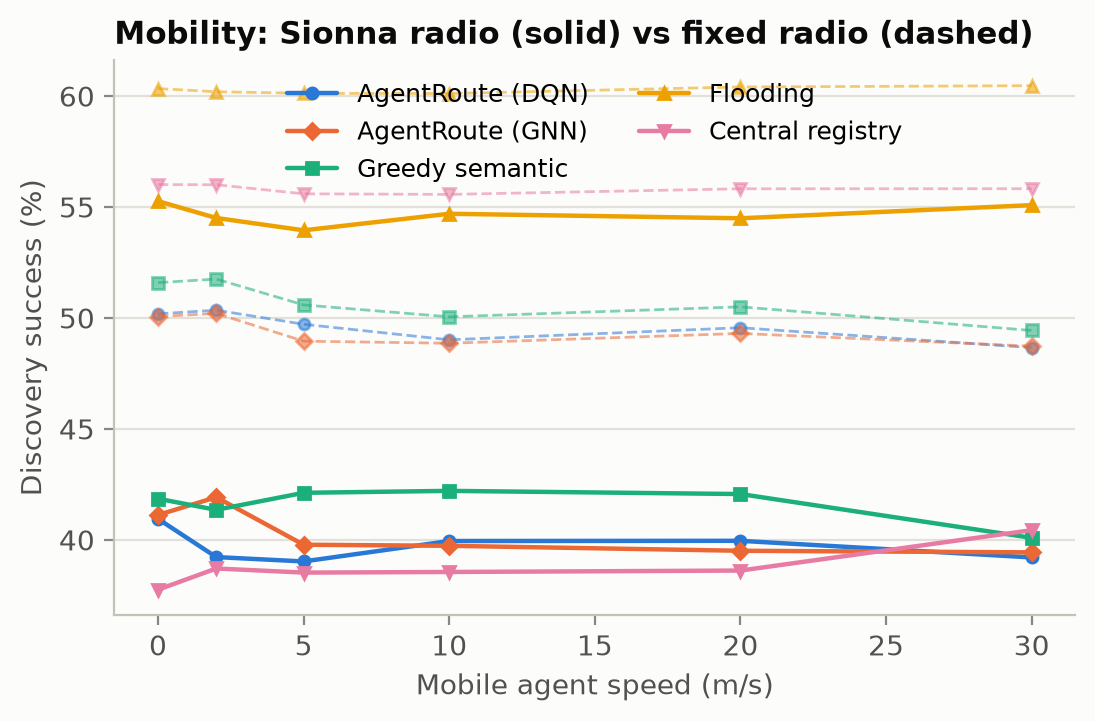
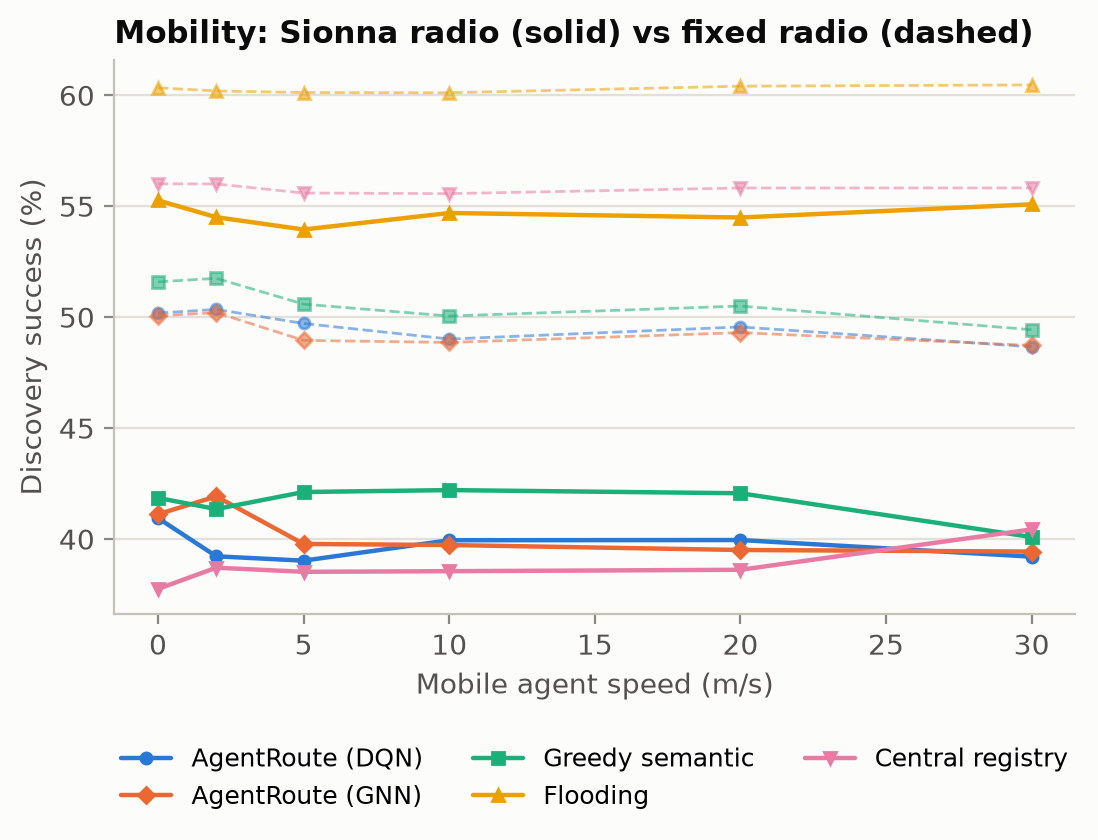
Move the legend of the radio mobility figure below the plot

diff --git a/viz/plot_radio.py b/viz/plot_radio.py
@@ -74,7 +74,7 @@ def fig_mobility(df, ref):
     ax.set_xlabel("Mobile agent speed (m/s)")
     ax.set_ylabel("Discovery success (%)")
     ax.set_title("Mobility: Sionna radio (solid) vs fixed radio (dashed)")
-    ax.legend(ncol=2)
+    ax.legend(ncol=3, loc="upper center", bbox_to_anchor=(0.5, -0.2))
     save(fig, "radio_mobility")
 
 
